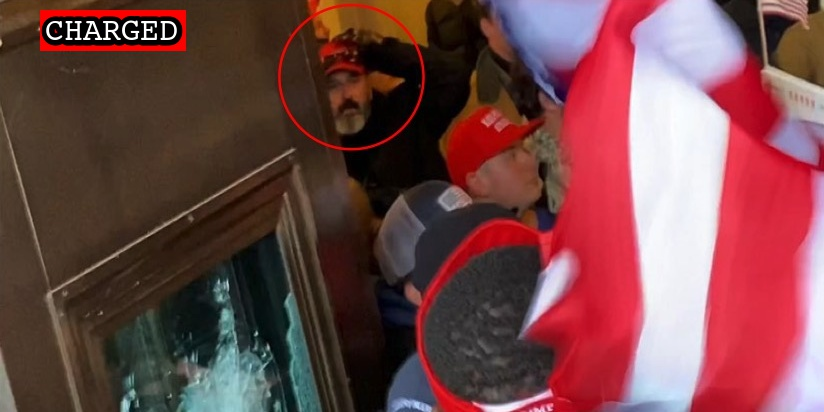
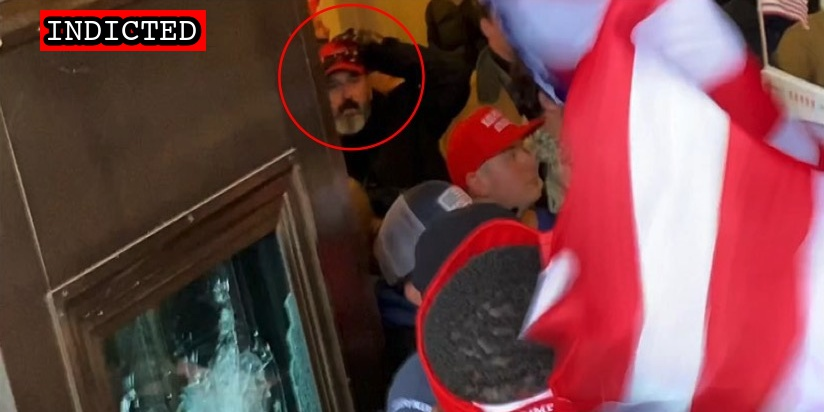
New indictment

Changed region(s): [[0.0303, 0.0, 0.2731, 0.1456]]

diff --git a/docs/_suspects/david-arredondo.md b/docs/_suspects/david-arredondo.md
@@ -4,10 +4,10 @@ lastName: Arredondo
 hashtag:
 aka:
 residence: Texas
-status: Charged
+status: Indicted
 date: 2022-10-24
 charged: 2022-10-24
-indicted:
+indicted: 2022-11-16
 convicted:
 acquitted:
 sentenced:
@@ -35,13 +35,15 @@ description: Click for latest case details. Suspects innocent until proven guilt
 author: seditiontrack
 layout: suspect
 published: true
-caseNumber: 
+caseNumber:
 caseName:
 judge:
 videos:
 charges:
 sentence:
 ---
+
 - [News Report](https://lawandcrime.com/u-s-capitol-breach/maga-hatted-texan-caught-on-video-grabbing-cops-arm-to-facilitate-the-entry-of-other-rioters-on-jan-6-feds-say/)
 - [Complaint](https://www.justice.gov/usao-dc/case-multi-defendant/file/1547431/download)
 - [Statement of Facts](https://www.justice.gov/usao-dc/case-multi-defendant/file/1547436/download)
+- [Indictment](https://storage.courtlistener.com/recap/gov.uscourts.dcd.249403/gov.uscourts.dcd.249403.14.0_3.pdf)
